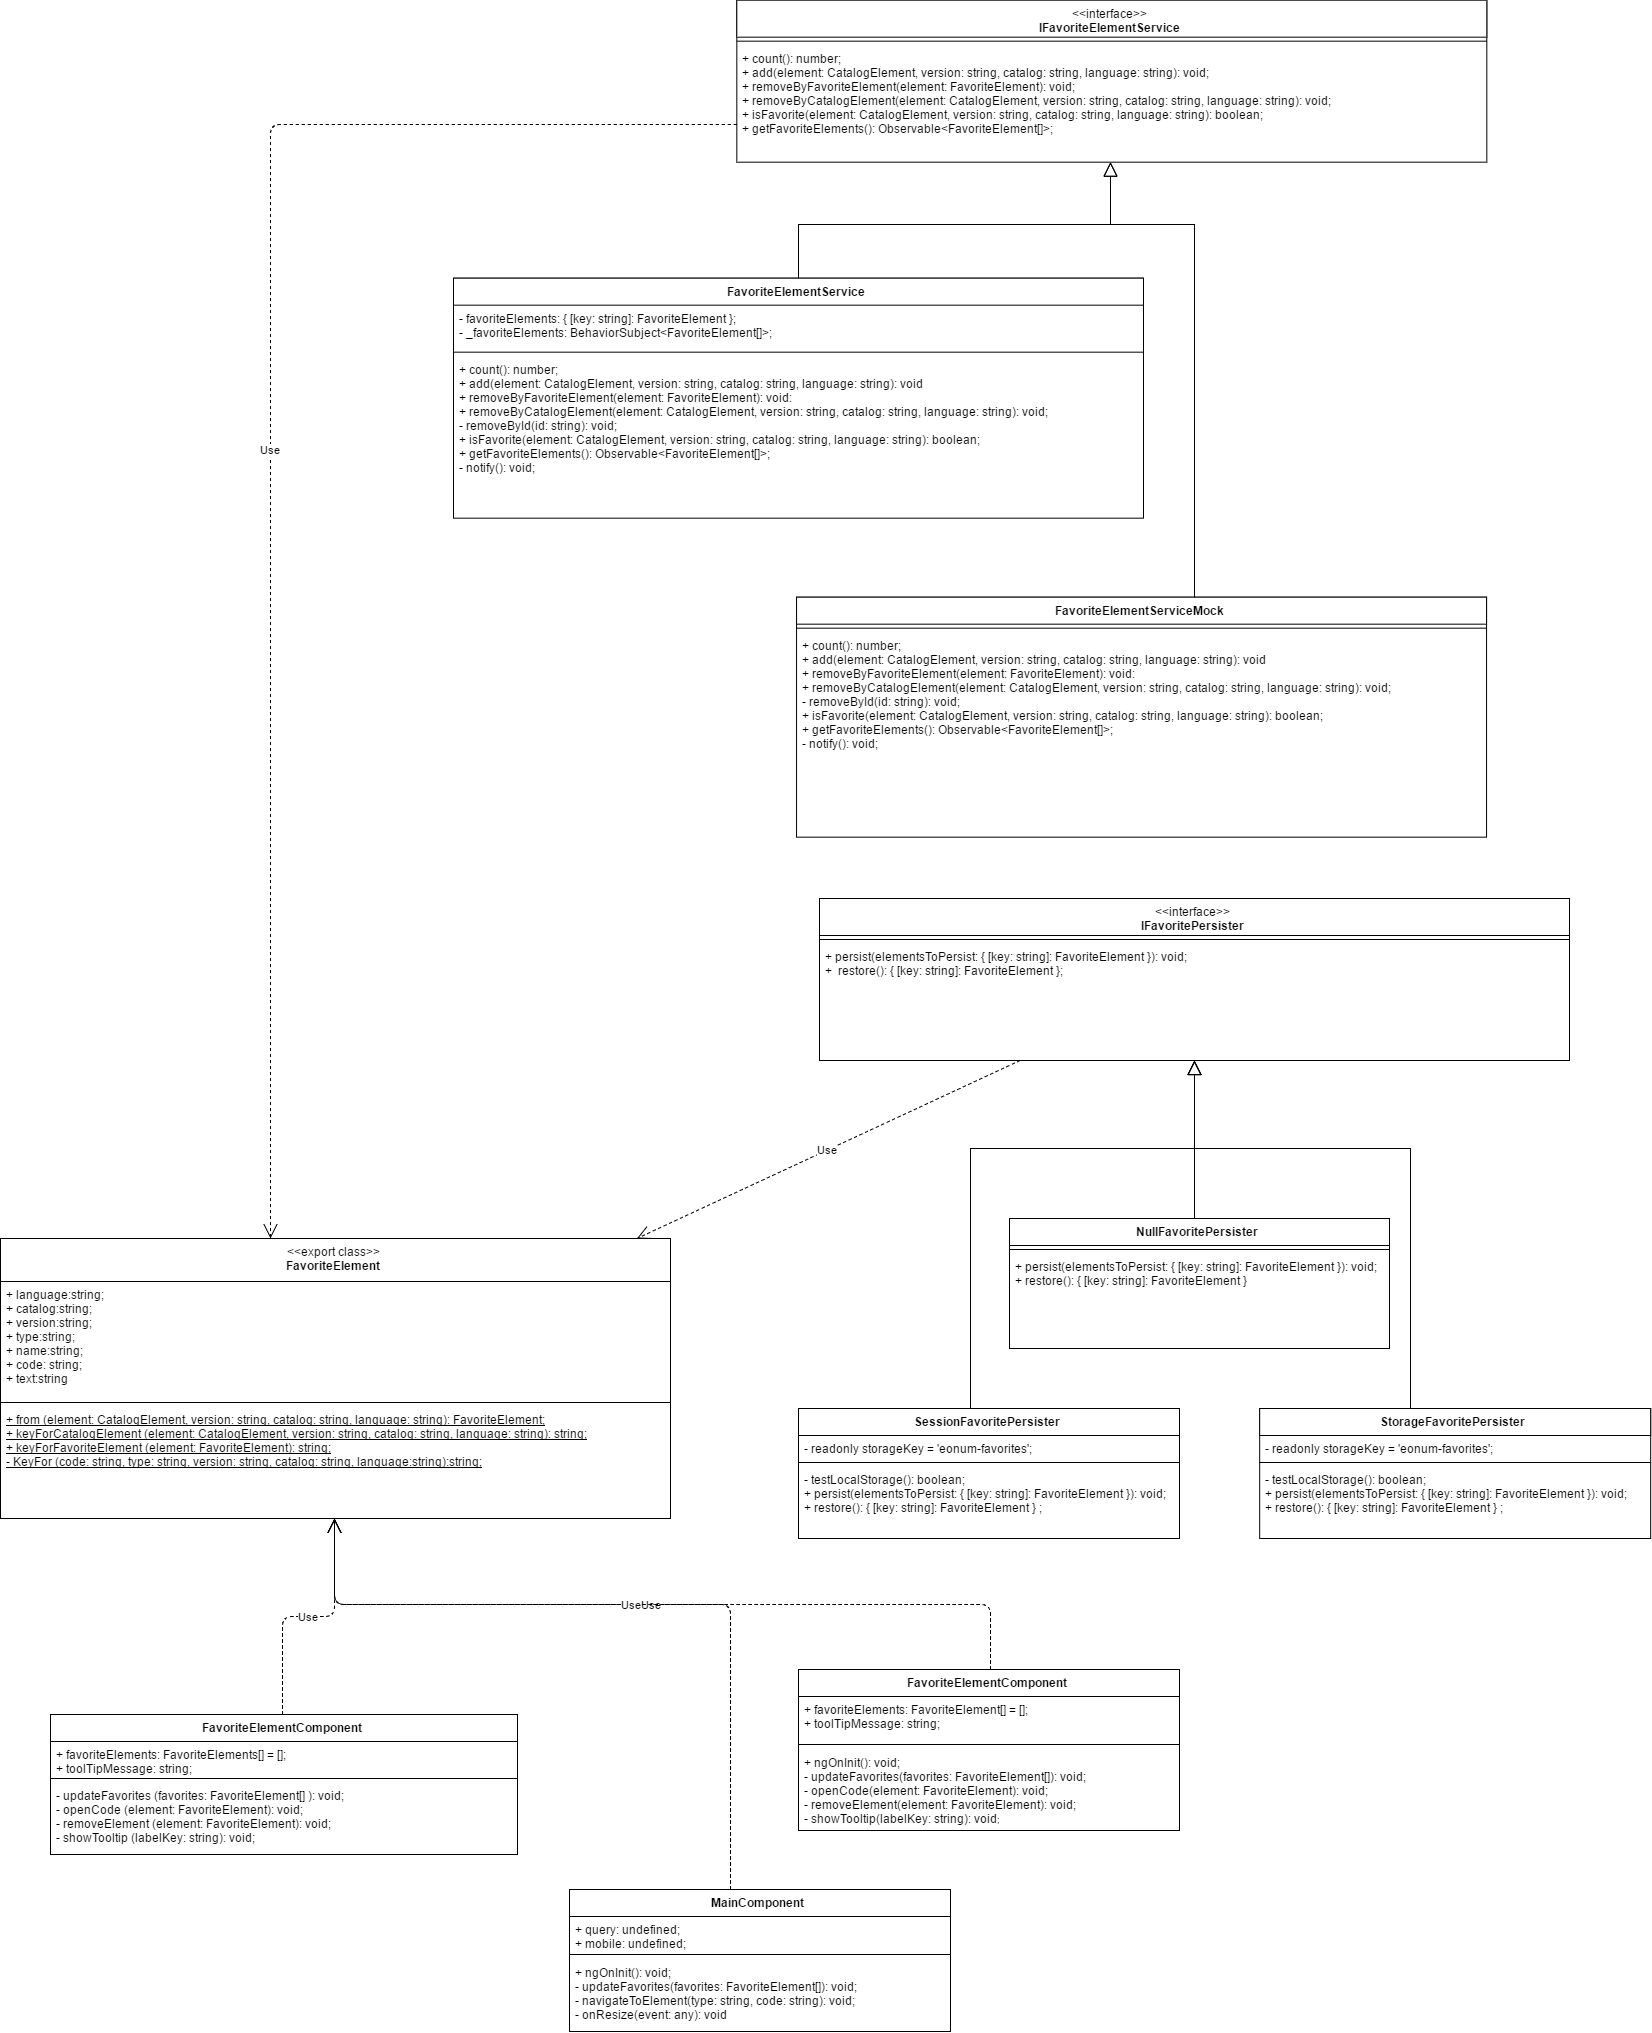
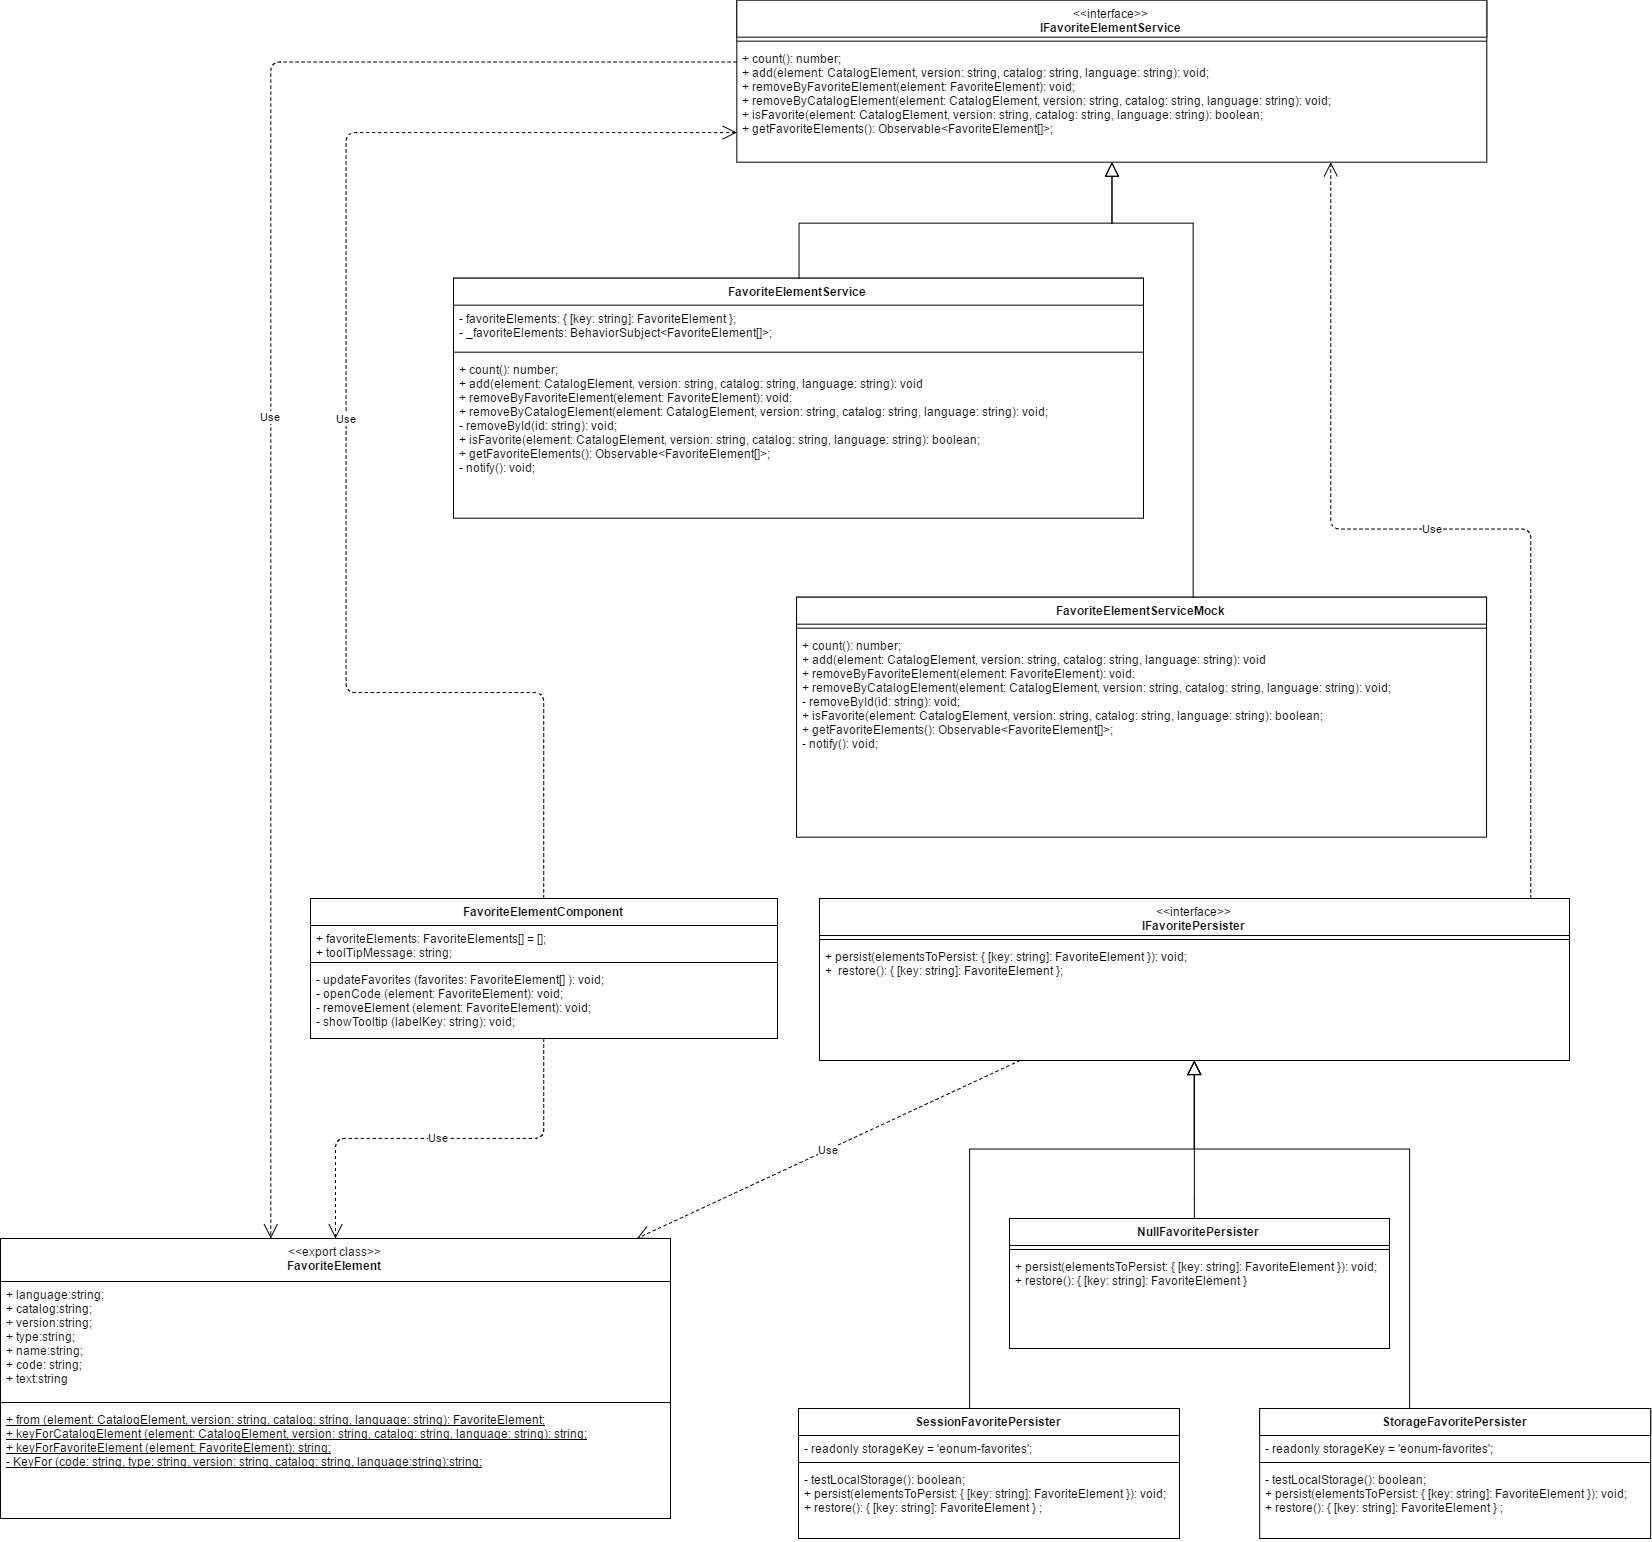
Kreierte Favorite Element Architektur Dokumentation

diff --git a/documentation/CatalogArchitecture.md b/documentation/CatalogArchitecture.md
@@ -2,13 +2,15 @@
 
 ![](./CatalogArchitecture.png)
 
+Die MedCodeSearch Software erlaubt es mehrere verschiedene Kataloge nach elementen zu durchsuchen. In diesem Dokument is Beschreieben wie die Architektur dahinter abläuft.
+
 Die eonum-API kennt drei verschiedene Kataloge. Diese Kataloge weisen zahlreiche Gemeinsamkeiten auf, welche teilweise in eine Oberklasse `Catalog` ausgelagert werden können.
 
 Da jeder Katalog auch einige Besonderheiten besitzt, wird jeder Katalog durch eine eigene Klasse modelliert (`SwissDrgCatalog`, `ChopCatalog` und `IcdCatalog`). Katalog-spezifisches Verhalten kann damit gekapselt werden.
 
 Die Kataloge kommunizieren nicht direkt mit der eonum-API, da dies die Testbarkeit der Kataloge beeinträchtigen würde. Die eonum API wird von der Klasse `CatalogService` abgefragt, welche des Interface `ICatalogService` implementiert.
 
-Zum Testen können beliebige Fake-Objekte, welche das `ICatalogService`-Interface implementieren, im Konstruktor an einen Katalog übergeben werden.
+Zum Testen können beliebige Fake-Objekte, welche das `ICatalogService`-Interface implementieren, im Konstruktor an einen Katalog übergeben werden. Die `CatalogServiceMock` Klasse ist ein solches Fake-Object.
 
 Die Klasse `CatalogElement` modelliert ein Objekt aus einem Katalog. `CatalogElement` enthält dabei alle Eigenschaften der Objekte, welche in allen Katalogen gleich sind.
 

diff --git a/documentation/FavoriteArchitecture.md b/documentation/FavoriteArchitecture.md
@@ -1,0 +1,18 @@
+# Architektur Favorite System
+
+![](./FavoriteArchitecture.png)
+
+
+Die MedCodeSearch software unterstützt das sichern von favoriten so dass der/die Benutzer/in einen bestimmten code schnell wieder finden kann. In diesem dokument ist die architektur beschreiben. 
+
+Der `IFavoriteElementService` ist ein interface für die Service klasse die das Favorite-Feature anderen klassen zur verfügung stellt.
+
+Die `FavoriteElementService` und `FavoriteElementServiceMock` sind die implementation des zuvor beschriebenen interface. Die erste Klasse ist eine funktionstaugliche implementierung und die Mock Klasse dient zum Testen anderer Klassen.
+
+Die `SessionFavoritePersister` und `StorageFavoritePersister` Klassen nutzen die SessionStorage oder LocalStorage API des Browsers des Benutzers um FavoriteElemente zu sichern. Diese zwei Klassen abstrahieren den zugriff auf die Hardware des Benutzers. Sie werden vom `FavoriteElementService` genutzt um das FavoriteElement zu sichern.
+
+Das `IFavoritePersister` interface erlaubt das freie Austauschen der Klassen `SessionFavoritePersister` und `StorageFavoritePersister`.
+
+Das `FavoriteElementComponent` ist der schlussendliche Benutzer des Features und die Komponente die auf den Benutzer reagiert.
+
+Das `FavoriteElement` selbst modelliert die Daten des Favorite-Code.
